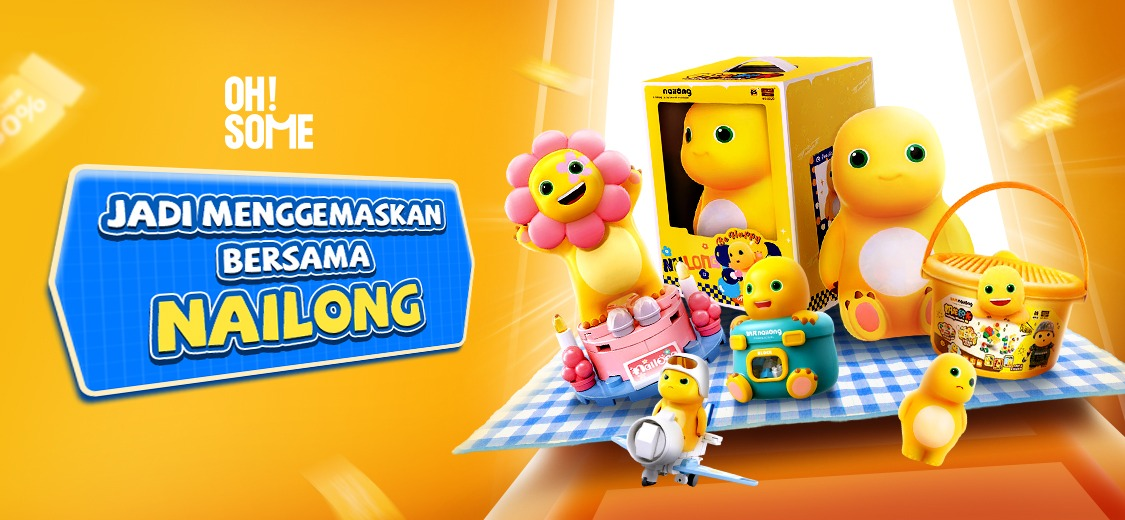
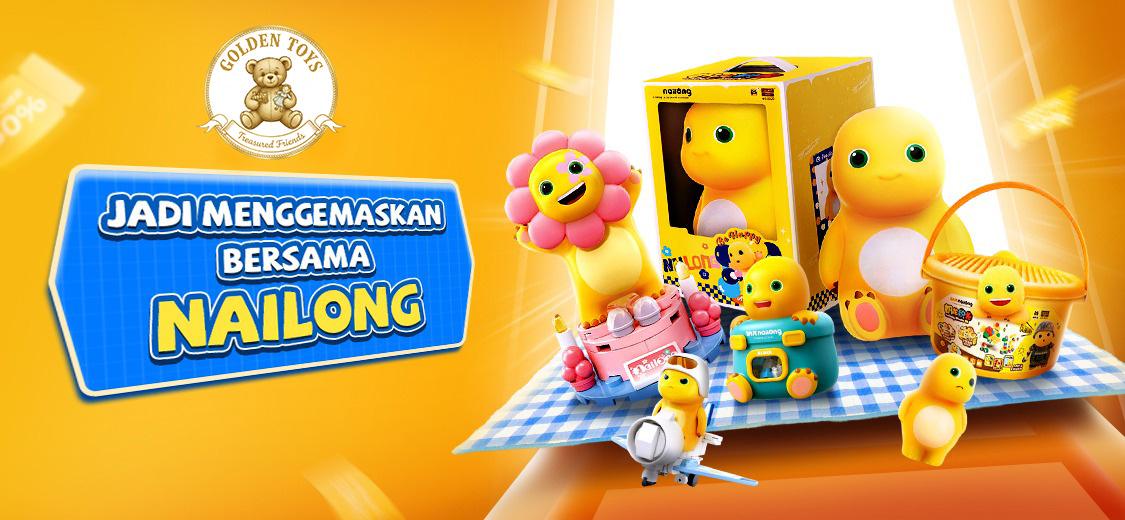
merubah title

diff --git a/resources/views/public/cart.blade.php b/resources/views/public/cart.blade.php
@@ -20,7 +20,7 @@
     <meta name="keywords" content="mobil, bekas, jual, beli, otomotif">
     <meta name="viewport" content="width=device-width, initial-scale=1.0">
     <meta http-equiv="X-UA-Compatible" content="ie=edge">
-    <title>MobilShift - Cart</title>
+    <title>GoldenToys - Cart</title>
 
     <!-- Google Font -->
     <link href="https://fonts.googleapis.com/css2?family=Comic+Neue:wght@400;700&family=Balsamiq+Sans:wght@400;700&family=Quicksand:wght@300;400;500;600;700&display=swap" rel="stylesheet">
@@ -703,7 +703,7 @@
         <div class="container-fluid">
             <div class="inner-header">
                 <div class="logo">
-                    <a href="{{ route('public.home') }}"><h4>MOBILSHIFT</h4></a>
+                    <a href="{{ route('public.home') }}"><h4>GoldenToys</h4></a>
                 </div>
 
                 <!-- Navigation Menu -->
@@ -909,8 +909,8 @@
                 <div class="row">
                     <div class="col-lg-12 col-sm-12">
                         <div class="single-footer-widget">
-                            <h4>Tentang MobilShift</h4>
-                            <p>MobilShift adalah platform terpercaya untuk jual beli mobil bekas berkualitas. Kami menghubungkan pembeli dan penjual dengan menyediakan informasi yang transparan dan akurat tentang setiap kendaraan.</p>
+                            <h4>Tentang GoldenToys</h4>
+                            <p>GoldenToys adalah platform terpercaya untuk jual beli mobil bekas berkualitas. Kami menghubungkan pembeli dan penjual dengan menyediakan informasi yang transparan dan akurat tentang setiap kendaraan.</p>
                             <p>Dengan komitmen untuk memberikan pengalaman terbaik dalam berbelanja mobil bekas, kami terus berinovasi dalam menyajikan informasi yang lengkap dan membantu Anda menemukan mobil impian dengan harga yang terjangkau.</p>
                         </div>                        
                     </div>
@@ -927,7 +927,7 @@
                 </div>
             </div>
             <div class="container text-center pt-3">
-                <p>&copy;<script>document.write(new Date().getFullYear());</script> MobilShift - All rights reserved</p>
+                <p>&copy;<script>document.write(new Date().getFullYear());</script> GoldenToys - All rights reserved</p>
             </div>
         </div>
     </footer>

diff --git a/resources/views/public/shop.blade.php b/resources/views/public/shop.blade.php
@@ -7,7 +7,7 @@
     <meta name="keywords" content="mobil, bekas, jual, beli, otomotif">
     <meta name="viewport" content="width=device-width, initial-scale=1.0">
     <meta http-equiv="X-UA-Compatible" content="ie=edge">
-    <title>MobilShift - Shop</title>
+    <title>GoldenToys - Shop</title>
 
     <!-- Google Font -->
     <link href="https://fonts.googleapis.com/css2?family=Comic+Neue:wght@400;700&family=Balsamiq+Sans:wght@400;700&family=Quicksand:wght@300;400;500;600;700&display=swap" rel="stylesheet">
@@ -653,8 +653,8 @@
                 <div class="row">
                     <div class="col-lg-12 col-sm-12">
                         <div class="single-footer-widget">
-                            <h4>Tentang MobilShift</h4>
-                            <p>MobilShift adalah platform terpercaya untuk jual beli mobil bekas berkualitas. Kami menghubungkan pembeli dan penjual dengan menyediakan informasi yang transparan dan akurat tentang setiap kendaraan. Setiap mobil yang terdaftar di platform kami telah melalui proses verifikasi untuk memastikan kualitas dan keasliannya.</p>
+                            <h4>Tentang GoldenToys</h4>
+                            <p>GoldenToys adalah platform terpercaya untuk jual beli mobil bekas berkualitas. Kami menghubungkan pembeli dan penjual dengan menyediakan informasi yang transparan dan akurat tentang setiap kendaraan. Setiap mobil yang terdaftar di platform kami telah melalui proses verifikasi untuk memastikan kualitas dan keasliannya.</p>
                             <p>Dengan komitmen untuk memberikan pengalaman terbaik dalam berbelanja mobil bekas, kami terus berinovasi dalam menyajikan informasi yang lengkap dan membantu Anda menemukan mobil impian dengan harga yang terjangkau. Kepercayaan dan kepuasan pelanggan adalah prioritas utama kami.</p>
                         </div>                        
                     </div>
@@ -671,7 +671,7 @@
                 </div>
             </div>
             <div class="container text-center pt-3">
-                <p>&copy;<script>document.write(new Date().getFullYear());</script> MobilShift - All rights reserved</p>
+                <p>&copy;<script>document.write(new Date().getFullYear());</script> GoldenToys - All rights reserved</p>
             </div>
         </div>
     </footer>

diff --git a/resources/views/public/profile.blade.php b/resources/views/public/profile.blade.php
@@ -14,7 +14,7 @@
     <meta name="keywords" content="mobil, bekas, jual, beli, otomotif">
     <meta name="viewport" content="width=device-width, initial-scale=1.0">
     <meta http-equiv="X-UA-Compatible" content="ie=edge">
-    <title>MobilShift - Edit Profile</title>
+    <title>GoldenToys - Edit Profile</title>
 
     <!-- Google Font -->
     <link href="https://fonts.googleapis.com/css2?family=Comic+Neue:wght@400;700&family=Balsamiq+Sans:wght@400;700&family=Quicksand:wght@300;400;500;600;700&display=swap" rel="stylesheet">
@@ -693,8 +693,8 @@
                 <div class="row">
                     <div class="col-lg-12 col-sm-12">
                         <div class="single-footer-widget">
-                            <h4>Tentang MobilShift</h4>
-                            <p>MobilShift adalah platform terpercaya untuk jual beli mobil bekas berkualitas. Kami menghubungkan pembeli dan penjual dengan menyediakan informasi yang transparan dan akurat tentang setiap kendaraan. Setiap mobil yang terdaftar di platform kami telah melalui proses verifikasi untuk memastikan kualitas dan keasliannya.</p>
+                            <h4>Tentang GoldenToys</h4>
+                            <p>GoldenToys adalah platform terpercaya untuk jual beli mobil bekas berkualitas. Kami menghubungkan pembeli dan penjual dengan menyediakan informasi yang transparan dan akurat tentang setiap kendaraan. Setiap mobil yang terdaftar di platform kami telah melalui proses verifikasi untuk memastikan kualitas dan keasliannya.</p>
                             <p>Dengan komitmen untuk memberikan pengalaman terbaik dalam berbelanja mobil bekas, kami terus berinovasi dalam menyajikan informasi yang lengkap dan membantu Anda menemukan mobil impian dengan harga yang terjangkau.</p>
                         </div>                        
                     </div>
@@ -711,7 +711,7 @@
                 </div>
             </div>
             <div class="container text-center pt-3">
-                <p>&copy;<script>document.write(new Date().getFullYear());</script> MobilShift - All rights reserved</p>
+                <p>&copy;<script>document.write(new Date().getFullYear());</script> GoldenToys - All rights reserved</p>
             </div>
         </div>
     </footer>

diff --git a/resources/views/public/pesanan.blade.php b/resources/views/public/pesanan.blade.php
@@ -21,7 +21,7 @@
     <meta name="keywords" content="mobil, bekas, jual, beli, otomotif">
     <meta name="viewport" content="width=device-width, initial-scale=1.0">
     <meta http-equiv="X-UA-Compatible" content="ie=edge">
-    <title>MobilShift - Pesanan</title>
+    <title>GoldenToys - Pesanan</title>
 
     <!-- Google Font -->
     <link href="https://fonts.googleapis.com/css2?family=Comic+Neue:wght@400;700&family=Balsamiq+Sans:wght@400;700&family=Quicksand:wght@300;400;500;600;700&display=swap" rel="stylesheet">
@@ -831,8 +831,8 @@
                 <div class="row">
                     <div class="col-lg-12 col-sm-12">
                         <div class="single-footer-widget">
-                            <h4>Tentang MobilShift</h4>
-                            <p>MobilShift adalah platform terpercaya untuk jual beli mobil bekas berkualitas. Kami menghubungkan pembeli dan penjual dengan menyediakan informasi yang transparan dan akurat tentang setiap kendaraan. Setiap mobil yang terdaftar di platform kami telah melalui proses verifikasi untuk memastikan kualitas dan keasliannya.</p>
+                            <h4>Tentang GoldenToys</h4>
+                            <p>GoldenToys adalah platform terpercaya untuk jual beli mobil bekas berkualitas. Kami menghubungkan pembeli dan penjual dengan menyediakan informasi yang transparan dan akurat tentang setiap kendaraan. Setiap mobil yang terdaftar di platform kami telah melalui proses verifikasi untuk memastikan kualitas dan keasliannya.</p>
                             <p>Dengan komitmen untuk memberikan pengalaman terbaik dalam berbelanja mobil bekas, kami terus berinovasi dalam menyajikan informasi yang lengkap dan membantu Anda menemukan mobil impian dengan harga yang terjangkau.</p>
                         </div>                        
                     </div>
@@ -849,7 +849,7 @@
                 </div>
             </div>
             <div class="container text-center pt-3">
-                <p>&copy;<script>document.write(new Date().getFullYear());</script> MobilShift - All rights reserved</p>
+                <p>&copy;<script>document.write(new Date().getFullYear());</script> GoldenToys - All rights reserved</p>
             </div>
         </div>
     </footer>

diff --git a/resources/views/public/checkout.blade.php b/resources/views/public/checkout.blade.php
@@ -2,7 +2,7 @@
 <html lang="id">
 <head>
     <meta charset="UTF-8">
-    <title>MobilShift - Invoice</title>
+    <title>GoldenToys - Invoice</title>
     
     <!-- Google Font -->
     <link href="https://fonts.googleapis.com/css2?family=Comic+Neue:wght@400;700&family=Balsamiq+Sans:wght@400;700&family=Quicksand:wght@300;400;500;600;700&display=swap" rel="stylesheet">
@@ -419,7 +419,7 @@
         <div class="container-fluid">
             <div class="inner-header">
                 <div class="logo">
-                    <a href="{{ route('public.home') }}"><h4>MobilShift</h4></a>
+                    <a href="{{ route('public.home') }}"><h4>GoldenToys</h4></a>
                 </div>
 
                 <!-- Navigation Menu -->
@@ -480,7 +480,7 @@
             <div class="row">
                 <div class="col-md-6">
                     <strong><i class="fas fa-store me-2"></i>Dari</strong><br>
-                    <b>MS - MobilShift</b><br>
+                    <b>GoldenToys</b><br>
                     Arengka 1 No 36 D-E, Jl. Soekarno - Hatta,<br>
                     Sidomulyo Tim., Kecamatan Marpoyan, Kota Pekanbaru, Riau 28125<br>
                     <strong><i class="fas fa-phone me-2"></i>No HP:</strong> 0852-6552-7838<br>

diff --git a/resources/views/public/product.blade.php b/resources/views/public/product.blade.php
@@ -3,11 +3,11 @@
 
 <head>
     <meta charset="UTF-8">
-    <meta name="description" content="MobilShift - Jual Beli Mobil Bekas">
+    <meta name="description" content="GoldenToys - Jual Beli Mobil Bekas">
     <meta name="keywords" content="mobil, bekas, jual, beli, otomotif">
     <meta name="viewport" content="width=device-width, initial-scale=1.0">
     <meta http-equiv="X-UA-Compatible" content="ie=edge">
-    <title>MobilShift - {{ $product->product_name ?? 'Detail Produk' }}</title>
+    <title>GoldenToys - {{ $product->product_name ?? 'Detail Produk' }}</title>
 
     <!-- Google Fonts -->
     <link href="https://fonts.googleapis.com/css2?family=Comic+Neue:wght@400;700&family=Balsamiq+Sans:wght@400;700&family=Quicksand:wght@300;400;500;600;700&display=swap" rel="stylesheet">
@@ -931,7 +931,7 @@
                 </div>
             </div>
             <div class="container text-center pt-5">
-                <p>&copy;<script>document.write(new Date().getFullYear());</script> MobilShift - All rights reserved</p>
+                <p>&copy;<script>document.write(new Date().getFullYear());</script> GoldenToys - All rights reserved</p>
             </div>
         </div>
     </footer>

diff --git a/resources/views/public/home.blade.php b/resources/views/public/home.blade.php
@@ -856,6 +856,7 @@
             font-size: 0.65rem;
         }
     }
+
 </style>
 </head>
 
@@ -883,11 +884,14 @@
 <header class="header-section">
     <div class="container-fluid">
         <div class="inner-header">
-            <div class="logo">
-                <a href="{{ route('public.home') }}" class="logo-text">
-                    🚗 MobilShift
-                </a>
-            </div>
+<div class="logo-container">
+        <img src="{{ asset('ecomerce/img/logo.png') }}" 
+         alt="Golden Toys Logo" 
+         style="width: 28px; height: 28px; vertical-align: middle;">
+    <a href="{{ route('public.home') }}" class="logo-text">
+        GoldenToys
+    </a>
+</div>
 
             <!-- Menu Navigasi -->
             <nav class="main-menu">

diff --git a/resources/views/public/pembayaran/create.blade.php b/resources/views/public/pembayaran/create.blade.php
@@ -3,7 +3,7 @@
 <head>
     <meta charset="UTF-8">
     <meta name="viewport" content="width=device-width, initial-scale=1.0">
-    <title>Form Pembayaran - MobilShift</title>
+    <title>Form Pembayaran - GoldenToys</title>
     
     <!-- Google Font -->
     <link href="https://fonts.googleapis.com/css2?family=Comic+Neue:wght@400;700&family=Balsamiq+Sans:wght@400;700&family=Quicksand:wght@300;400;500;600;700&display=swap" rel="stylesheet">
@@ -244,7 +244,7 @@
 
 <div class="payment-container">
     <h1 class="page-title">
-        <i class="fas fa-credit-card"></i>Form Pembayaran MobilShift
+        <i class="fas fa-credit-card"></i>Form Pembayaran GoldenToys
     </h1>
 
     @if(session('success'))

diff --git a/resources/views/public/contact.blade.php b/resources/views/public/contact.blade.php
@@ -20,7 +20,7 @@
     <meta name="keywords" content="Yoga, unica, creative, html">
     <meta name="viewport" content="width=device-width, initial-scale=1.0">
     <meta http-equiv="X-UA-Compatible" content="ie=edge">
-    <title>MobilShift</title>
+    <title>GoldenToys</title>
 
     <!-- Google Font -->
     <link href="https://fonts.googleapis.com/css?family=Amatic+SC:400,700&display=swap" rel="stylesheet">
